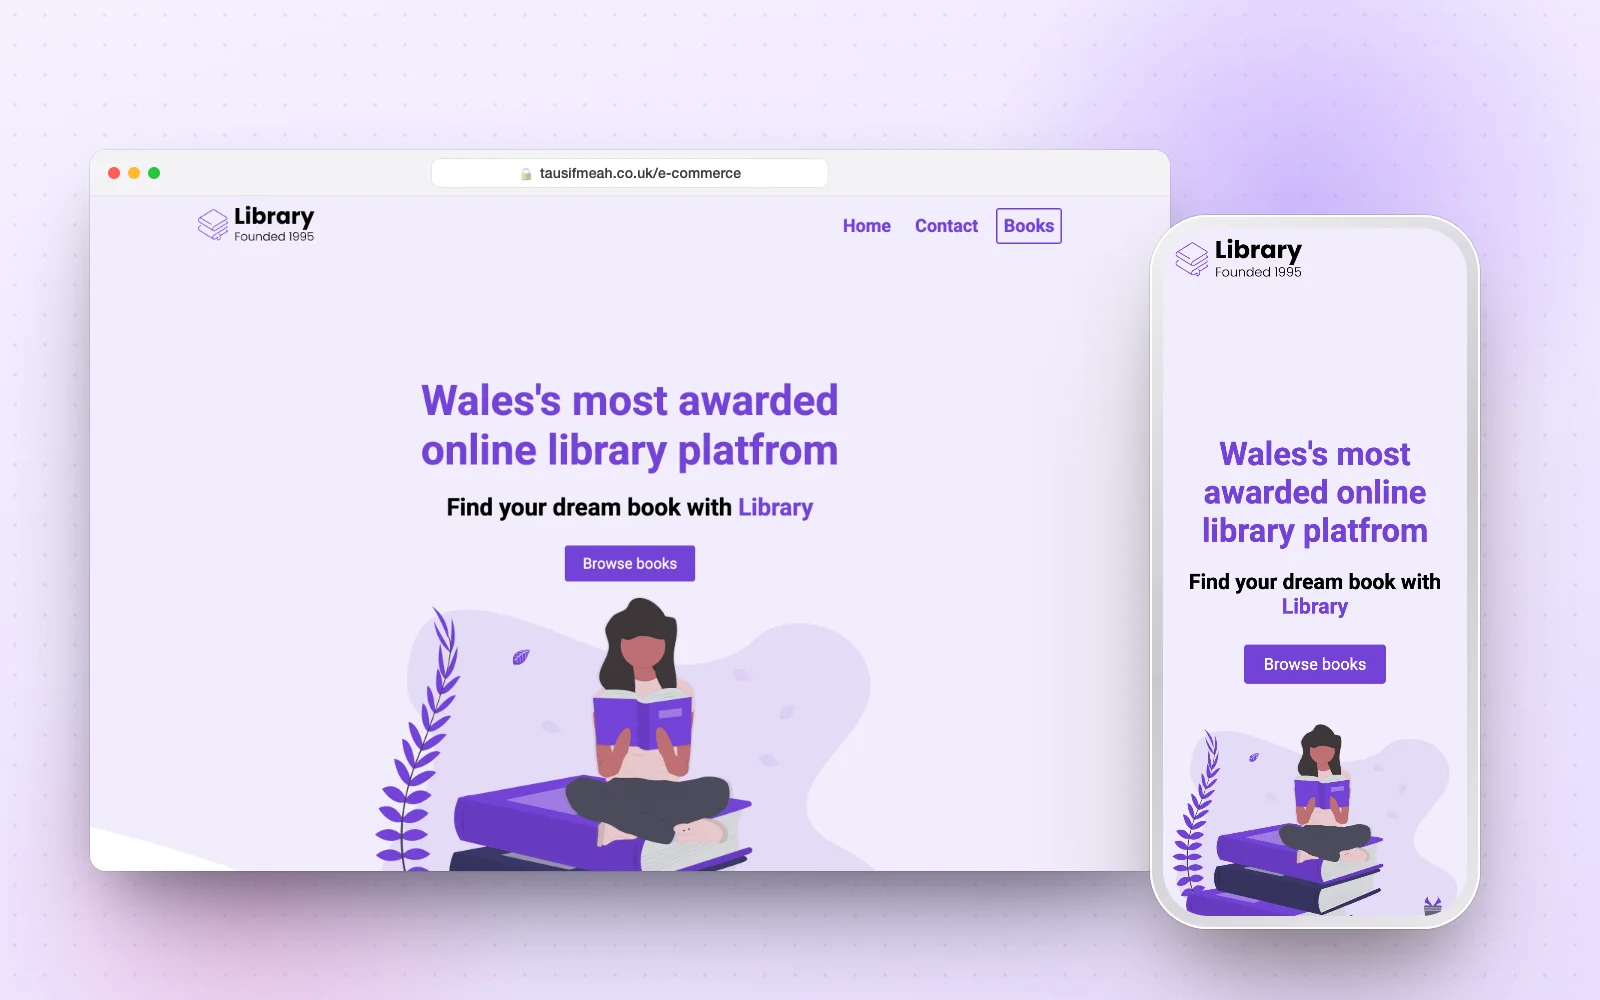
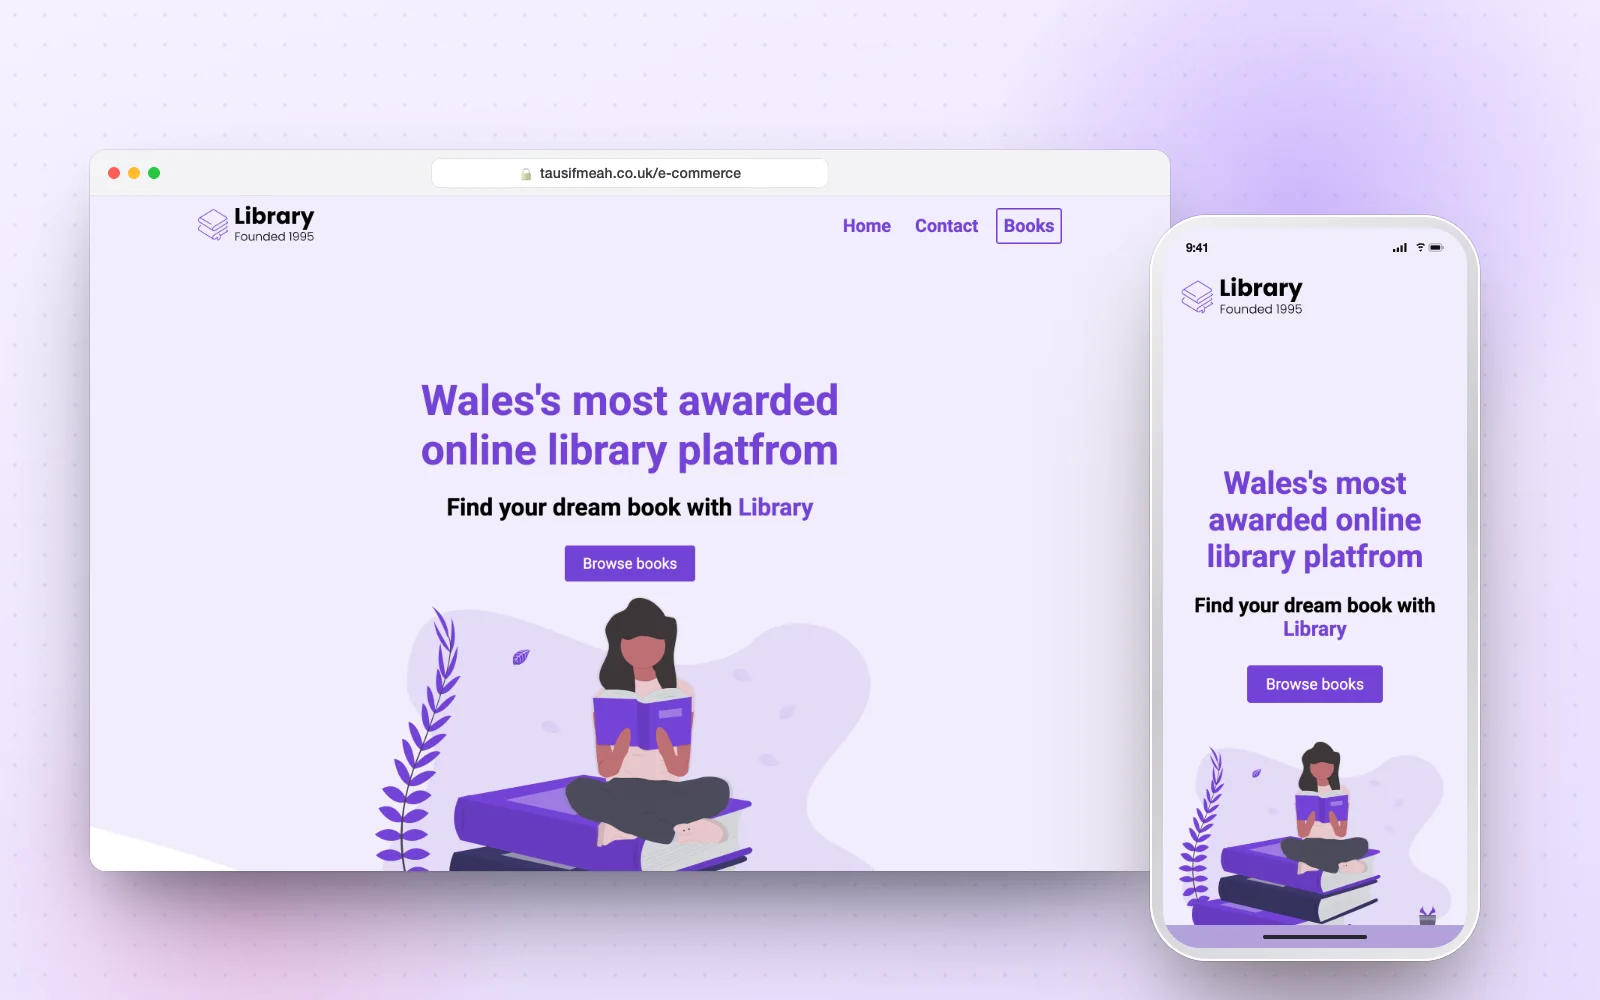
Show every app screenshot in full: status bars on phone covers, natural-aspect case study phones, no hover crop

Changed region(s): [[0.7188, 0.434, 0.9375, 1.0], [0.7188, 0.217, 0.8125, 0.31]]

diff --git a/src/content/projects.ts b/src/content/projects.ts
@@ -19,6 +19,7 @@ export const projects: Project[] = [
     links: [{ label: "viralzapp.com", href: "https://viralzapp.com/" }],
     desktopImage: "/projects/viralz.webp",
     phoneImage: "/projects/viralz-phone.webp",
+    phoneImageSize: { width: 384, height: 820 },
     role: "Founder and developer",
     platform: "iOS app and web",
     overview:
@@ -63,6 +64,7 @@ export const projects: Project[] = [
     links: [{ label: "snappd.app", href: "https://snappd.app/" }],
     desktopImage: "/projects/snappd.webp",
     phoneImage: "/projects/snappd-phone.webp",
+    phoneImageSize: { width: 732, height: 1609 },
     role: "Founder and developer",
     platform: "Web app",
     overview:
@@ -108,6 +110,7 @@ export const projects: Project[] = [
     links: [{ label: "getgogrow.app", href: "https://getgogrow.app/" }],
     desktopImage: "/projects/gogrow.webp",
     phoneImage: "/projects/gogrow-phone.webp",
+    phoneImageSize: { width: 436, height: 951 },
     role: "Developer",
     platform: "iOS app and web",
     overview:

diff --git a/src/components/site/device-frame.tsx b/src/components/site/device-frame.tsx
@@ -2,20 +2,22 @@ import type { ProjectTheme } from "@/content/types";
 
 type DeviceFrameProps = {
   src: string;
+  width: number;
+  height: number;
   alt: string;
   theme: ProjectTheme;
   eager?: boolean;
 };
 
-export function DeviceFrame({ src, alt, theme, eager }: DeviceFrameProps) {
+export function DeviceFrame({ src, width, height, alt, theme, eager }: DeviceFrameProps) {
   return (
     <div className={`device device--${theme}`}>
       <div className="device__screen">
         <img
           src={src}
           alt={alt}
-          width={430}
-          height={932}
+          width={width}
+          height={height}
           loading={eager ? "eager" : "lazy"}
         />
       </div>

diff --git a/src/styles/showcase.css b/src/styles/showcase.css
@@ -236,19 +236,6 @@
   transition: transform 600ms var(--ease-out);
 }
 
-.device::before {
-  content: "";
-  position: absolute;
-  z-index: 3;
-  top: 13px;
-  left: 50%;
-  width: 30%;
-  height: 17px;
-  border-radius: 999px;
-  background: #000;
-  transform: translateX(-50%);
-}
-
 .device::after {
   content: "";
   position: absolute;
@@ -262,7 +249,6 @@
 
 .device__screen {
   position: relative;
-  aspect-ratio: 9 / 19.5;
   border-radius: 29px;
   overflow: hidden;
   background: #000;
@@ -279,10 +265,9 @@
 }
 
 .device__screen img {
+  display: block;
   width: 100%;
-  height: 100%;
-  object-fit: cover;
-  object-position: top;
+  height: auto;
 }
 
 .device--viralz {

diff --git a/src/components/projects/case-study-layout.tsx b/src/components/projects/case-study-layout.tsx
@@ -139,6 +139,8 @@ export function CaseStudyLayout({ project, next }: CaseStudyLayoutProps) {
         <div className="case-screens__phone">
           <DeviceFrame
             src={project.phoneImage}
+            width={project.phoneImageSize.width}
+            height={project.phoneImageSize.height}
             alt={`${project.name} app screen`}
             theme={project.theme}
           />

diff --git a/src/content/types.ts b/src/content/types.ts
@@ -25,6 +25,7 @@ export type Project = {
   links: ProjectLink[];
   desktopImage: string;
   phoneImage: string;
+  phoneImageSize: { width: number; height: number };
   role: string;
   platform: string;
   overview: string;

diff --git a/src/styles/site.css b/src/styles/site.css
@@ -1427,7 +1427,6 @@ textarea.input {
 
 .archive__card:hover .archive__thumb img,
 .archive__card:hover .archive__placeholder {
-  transform: scale(1.045);
   filter: saturate(1.1);
 }
 
